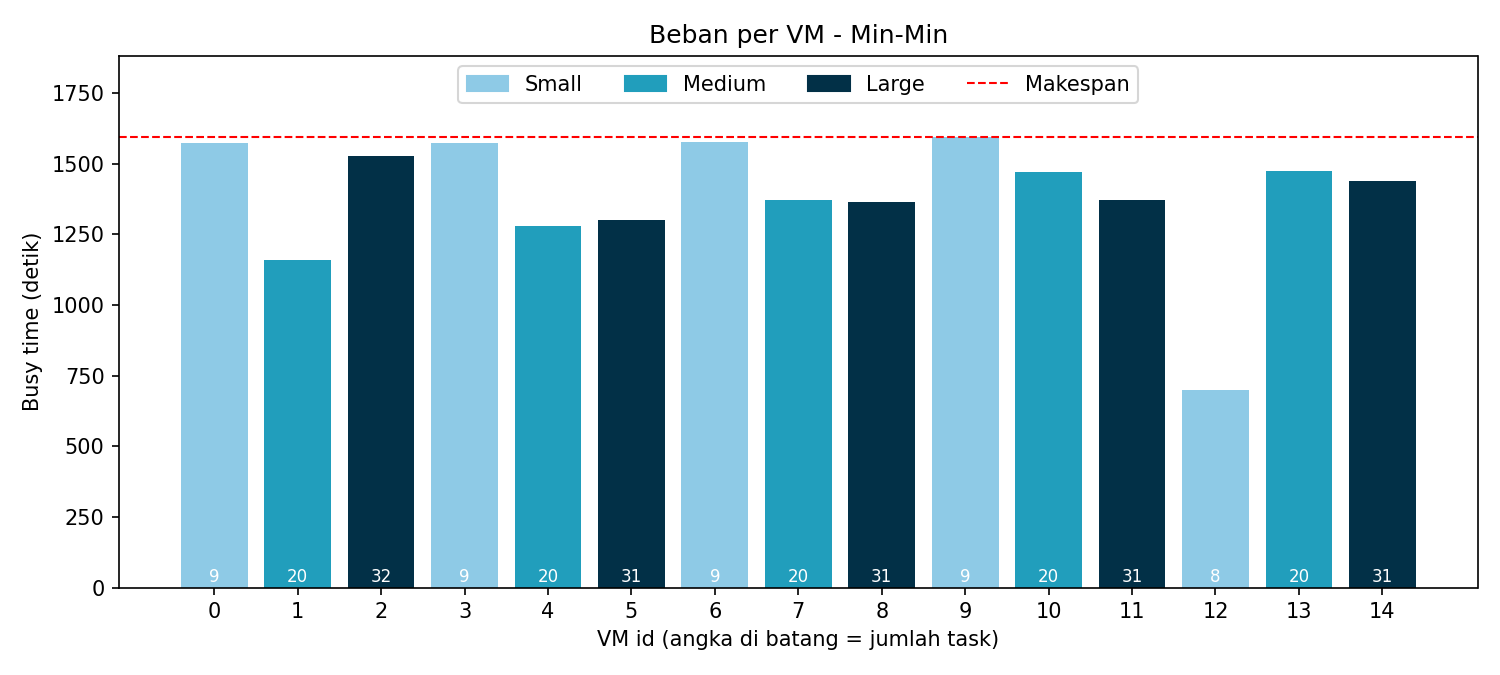
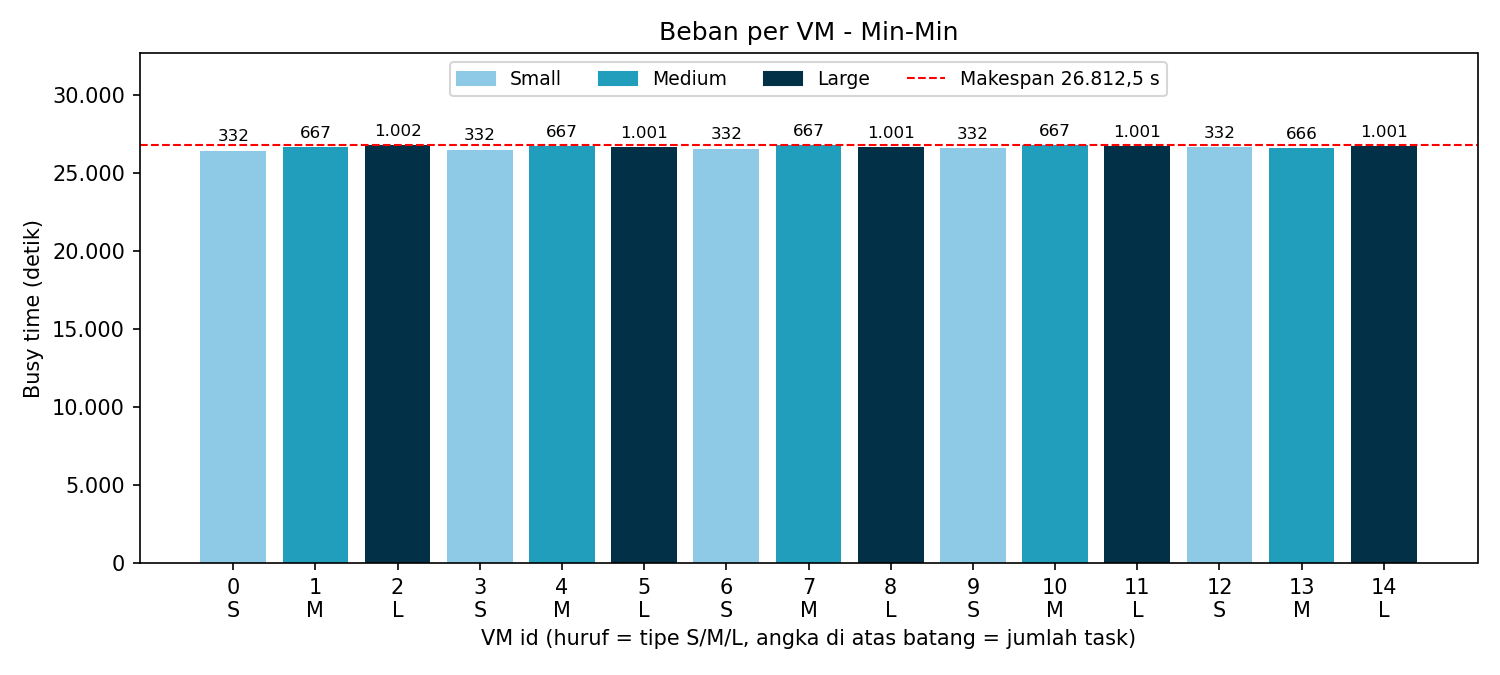
revisi dari bu henning

Changed region(s): [[0.0, 0.1867, 0.9813, 0.9644], [0.092, 0.0311, 0.9813, 0.1556], [0.0307, 0.1244, 0.092, 0.1556]]

diff --git a/analysis/plot_results.py b/analysis/plot_results.py
@@ -3,54 +3,113 @@ Membuat 3 grafik dari CSV hasil simulasi. Jalankan dari folder root proyek:
     python analysis/plot_results.py
 Butuh:  pip install pandas matplotlib
 Output: results/grafik_1_beban_vm.png, grafik_2_urutan_vs_panjang.png, grafik_3_waiting_time.png
+Format angka Indonesia: titik = ribuan, koma = desimal.
 """
 import os
 import pandas as pd
+import numpy as np
 import matplotlib
 matplotlib.use("Agg")          # aman di laptop tanpa layar / WSL
 import matplotlib.pyplot as plt
+from matplotlib.ticker import FuncFormatter
 
 R = "results"
 cl = pd.read_csv(os.path.join(R, "cloudlet_result.csv"))
 vm = pd.read_csv(os.path.join(R, "vm_load.csv"))
 sm = pd.read_csv(os.path.join(R, "summary.csv")).set_index("metrik")["nilai"]
 
-# ---- 1. Beban per VM (busy time) -> apakah load seimbang? ----
+
+def fmt_int_id(x, pos=None):
+    try:
+        v = float(x)
+    except (TypeError, ValueError):
+        return ""
+    return f"{int(round(v)):,}".replace(",", ".")
+
+
+def fmt_des_id(x, nd=1):
+    s = f"{x:,.{nd}f}"
+    return s.replace(",", "X").replace(".", ",").replace("X", ".")
+
+
+n = len(cl)
+makespan = float(sm["makespan_simulasi_detik"])
+avg_wait = float(sm["average_waiting_time_detik"])
+
+# ---- 1. Beban per VM (busy time) ----
 fig, ax = plt.subplots(figsize=(10, 4.5))
 colors = {"Small": "#8ecae6", "Medium": "#219ebc", "Large": "#023047"}
-ax.bar(vm["vm_id"], vm["busy_time"], color=[colors[t] for t in vm["tipe"]])
-ax.axhline(sm["makespan_simulasi_detik"], color="red", ls="--", lw=1, label="Makespan")
-for x, n in zip(vm["vm_id"], vm["jumlah_task"]):
-    ax.text(x, 5, str(n), ha="center", va="bottom", color="white", fontsize=8)
-ax.set_xticks(vm["vm_id"]); ax.set_xlabel("VM id (angka di batang = jumlah task)")
-ax.set_ylabel("Busy time (detik)"); ax.set_title("Beban per VM - Min-Min")
+bars = ax.bar(vm["vm_id"], vm["busy_time"], color=[colors[t] for t in vm["tipe"]])
+ax.axhline(makespan, color="red", ls="--", lw=1,
+           label=f"Makespan {fmt_des_id(makespan)} s")
+# angka jumlah task di ATAS batang (hitam, terbaca)
+ymax = max(vm["busy_time"].max(), makespan)
+for rect, nt in zip(bars, vm["jumlah_task"]):
+    ax.text(rect.get_x() + rect.get_width() / 2, rect.get_height() + ymax * 0.015,
+            fmt_int_id(nt), ha="center", va="bottom", color="black", fontsize=8)
+ax.set_xticks(vm["vm_id"])
+ax.set_xticklabels([f"{i}\n{t[0]}" for i, t in zip(vm["vm_id"], vm["tipe"])])
+ax.set_xlabel("VM id (huruf = tipe S/M/L, angka di atas batang = jumlah task)")
+ax.set_ylabel("Busy time (detik)")
+ax.set_title("Beban per VM - Min-Min")
 handles = [plt.Rectangle((0, 0), 1, 1, color=c) for c in colors.values()]
-ax.set_ylim(0, sm["makespan_simulasi_detik"] * 1.18)
-ax.legend(handles + [ax.lines[0]], list(colors.keys()) + ["Makespan"], loc="upper center", ncol=4)
+ax.yaxis.set_major_formatter(FuncFormatter(fmt_int_id))
+ax.set_ylim(0, ymax * 1.22)
+ax.legend(handles + [ax.lines[0]], list(colors.keys()) + [f"Makespan {fmt_des_id(makespan)} s"],
+          loc="upper center", ncol=4, fontsize=9)
 fig.tight_layout(); fig.savefig(os.path.join(R, "grafik_1_beban_vm.png"), dpi=150); plt.close(fig)
 
-# ---- 2. Urutan penjadwalan vs panjang task -> apakah task kecil duluan? ----
+# ---- 2. Urutan penjadwalan vs panjang task ----
 fig, ax = plt.subplots(figsize=(8, 4.5))
-ax.scatter(cl["urutan_dijadwalkan"], cl["panjang_MI"], s=12, alpha=0.7)
-ax.set_xlabel("Urutan dijadwalkan (1 = pertama)"); ax.set_ylabel("Panjang task (MI)")
+ax.scatter(cl["urutan_dijadwalkan"], cl["panjang_MI"], s=12, alpha=0.6)
+ax.set_xlabel("Urutan dijadwalkan (1 = pertama)")
+ax.set_ylabel("Panjang task (MI)")
 ax.set_title("Urutan penjadwalan vs panjang task")
+ax.yaxis.set_major_formatter(FuncFormatter(fmt_int_id))
+ax.xaxis.set_major_formatter(FuncFormatter(fmt_int_id))
+ax.grid(True, linestyle=":", alpha=0.5)
 fig.tight_layout(); fig.savefig(os.path.join(R, "grafik_2_urutan_vs_panjang.png"), dpi=150); plt.close(fig)
 
-# ---- 3. Waiting time per task, diurutkan menurut panjang task ----
+# ---- 3. Waiting time: rata-rata per bin (diurutkan menurut panjang task) ----
 s = cl.sort_values("panjang_MI").reset_index(drop=True)
-fig, ax = plt.subplots(figsize=(8, 4.5))
-ax.bar(s.index, s["waiting_time"], width=1.0, color="#219ebc")
-ax.axhline(sm["average_waiting_time_detik"], color="red", ls="--", lw=1, label="Rata-rata")
-ax.set_xlabel("Task (diurutkan dari terpendek ke terpanjang)"); ax.set_ylabel("Waiting time (detik)")
-ax.set_title("Waiting time per task"); ax.legend()
+n_bins = 20 if n >= 200 else max(5, n // 10)
+s["bin"] = pd.qcut(s.index, q=n_bins, duplicates="drop")
+g = s.groupby("bin", observed=True).agg(
+    mi_min=("panjang_MI", "min"), mi_max=("panjang_MI", "max"),
+    wait_mean=("waiting_time", "mean"), jml=("waiting_time", "size"))
+g = g.reset_index(drop=True)
+x = np.arange(len(g))
+labels = [f"{fmt_int_id(a)}–{fmt_int_id(b)}" for a, b in zip(g["mi_min"], g["mi_max"])]
+
+fig, ax = plt.subplots(figsize=(10, 4.5))
+bars = ax.bar(x, g["wait_mean"], color="#219ebc", edgecolor="white")
+ax.axhline(avg_wait, color="red", ls="--", lw=1.2,
+           label=f"Rata-rata global {fmt_des_id(avg_wait)} s")
+for i, v in enumerate(g["wait_mean"]):
+    if i % max(1, len(g) // 10) == 0 or i == len(g) - 1:
+        ax.text(i, v, fmt_des_id(v, 0) + " s", ha="center", va="bottom", fontsize=7)
+ax.set_xticks(x)
+step = max(1, len(g) // 10)
+ax.set_xticklabels([lb if (i % step == 0 or i == len(g) - 1) else "" for i, lb in enumerate(labels)],
+                   rotation=30, ha="right", fontsize=7)
+ax.set_xlabel(f"Kelompok task per panjang MI (n={fmt_int_id(n)} task, {fmt_int_id(g['jml'].iloc[0])} task/bin)")
+ax.set_ylabel("Rata-rata waiting time (detik)")
+ax.set_title("Rata-rata waiting time per kelompok panjang task")
+ax.yaxis.set_major_formatter(FuncFormatter(fmt_int_id))
+ax.legend(fontsize=9)
 fig.tight_layout(); fig.savefig(os.path.join(R, "grafik_3_waiting_time.png"), dpi=150); plt.close(fig)
 
-# ---- Angka pendukung untuk analisis dugaan slide 10 ----
+# ---- Angka pendukung ----
 q = cl["panjang_MI"].quantile([0.25, 0.75])
 kecil = cl[cl["panjang_MI"] <= q[0.25]]; besar = cl[cl["panjang_MI"] >= q[0.75]]
-print("Rata-rata waiting task terpendek (25%%): %.2f dtk" % kecil["waiting_time"].mean())
-print("Rata-rata waiting task terpanjang (25%%): %.2f dtk" % besar["waiting_time"].mean())
-print("Korelasi urutan vs panjang task (Spearman): %.3f" % cl["urutan_dijadwalkan"].corr(cl["panjang_MI"], method="spearman"))
-print("Utilisasi VM Small/Medium/Large (rata-rata %):")
+print("Rata-rata waiting task terpendek (25%%): %s dtk" % fmt_des_id(kecil["waiting_time"].mean(), 2))
+print("Rata-rata waiting task terpanjang (25%%): %s dtk" % fmt_des_id(besar["waiting_time"].mean(), 2))
+try:
+    rs = cl["urutan_dijadwalkan"].corr(cl["panjang_MI"], method="spearman")
+except ImportError:
+    # ponytail: tanpa scipy, Spearman = Pearson dari rank
+    rs = cl["urutan_dijadwalkan"].rank().corr(cl["panjang_MI"].rank())
+print("Korelasi urutan vs panjang task (Spearman): %.3f" % rs)
+print("Utilisasi VM Small/Medium/Large (rata-rata %%):")
 print(vm.groupby("tipe")["utilisasi_vm"].mean().round(2).to_string())
 print("Grafik tersimpan di folder results/")

diff --git a/analysis/plot_makespan.py b/analysis/plot_makespan.py
@@ -16,8 +16,25 @@ import pandas as pd
 import matplotlib
 matplotlib.use("Agg")
 import matplotlib.pyplot as plt
+from matplotlib.ticker import FuncFormatter
 
 R = "results"
+
+
+def fmt_int_id(x, pos=None):
+    # 10000 -> "10.000"
+    return f"{int(round(x)):,}".replace(",", ".")
+
+
+def fmt_1des_id(x):
+    # 4428.6 -> "4.428,6"
+    s = f"{x:,.1f}"  # "4,428.6"
+    return s.replace(",", "X").replace(".", ",").replace("X", ".")
+
+
+def fmt_0des_id(x):
+    # 26812 -> "26.812"
+    return f"{x:,.0f}".replace(",", ".")
 gocj_csv = os.path.join(R, "batch_gocj.csv")
 synth_csv = os.path.join(R, "batch_synthetic.csv")
 
@@ -39,7 +56,7 @@ ax1.plot(df_gocj["jumlah_task"], df_gocj["makespan_prediksi_detik"],
          linestyle="--", color="#f97316", linewidth=1.8, label="Prediksi Min-Min")
 
 for _, row in df_gocj.iterrows():
-    ax1.annotate(f"{row['makespan_simulasi_detik']:.1f}s",
+    ax1.annotate(f"{fmt_1des_id(row['makespan_simulasi_detik'])} s",
                  (row["jumlah_task"], row["makespan_simulasi_detik"]),
                  textcoords="offset points", xytext=(0, 7), ha='center', fontsize=7.5)
 
@@ -47,6 +64,8 @@ ax1.set_title("GoCJ Dataset (100 – 1.000 Task)", fontsize=13, fontweight="bold
 ax1.set_xlabel("Jumlah Task", fontsize=11)
 ax1.set_ylabel("Makespan (detik)", fontsize=11)
 ax1.set_xticks(df_gocj["jumlah_task"])
+ax1.set_xticklabels([fmt_int_id(v) for v in df_gocj["jumlah_task"]])
+ax1.yaxis.set_major_formatter(FuncFormatter(fmt_int_id))
 ax1.grid(True, linestyle=":", alpha=0.6)
 ax1.legend(loc="upper left")
 
@@ -57,7 +76,7 @@ ax2.plot(df_synth["jumlah_task"], df_synth["makespan_prediksi_detik"],
          linestyle="--", color="#dc2626", linewidth=1.8, label="Prediksi Min-Min")
 
 for _, row in df_synth.iterrows():
-    ax2.annotate(f"{row['makespan_simulasi_detik']:.0f}s",
+    ax2.annotate(f"{fmt_0des_id(row['makespan_simulasi_detik'])} s",
                  (row["jumlah_task"], row["makespan_simulasi_detik"]),
                  textcoords="offset points", xytext=(0, 7), ha='center', fontsize=7.5)
 
@@ -65,9 +84,8 @@ ax2.set_title("Synthetic Dataset (1.000 – 10.000 Task)", fontsize=13, fontweig
 ax2.set_xlabel("Jumlah Task", fontsize=11)
 ax2.set_ylabel("Makespan (detik)", fontsize=11)
 ax2.set_xticks(df_synth["jumlah_task"])
-ax2.tick_params(axis='x', rotation=30)
-ax2.grid(True, linestyle=":", alpha=0.6)
-ax2.legend(loc="upper left")
+ax2.set_xticklabels([fmt_int_id(v) for v in df_synth["jumlah_task"]])
+ax2.yaxis.set_major_formatter(FuncFormatter(fmt_int_id))
 
 plt.suptitle("Evaluasi Algoritma Min-Min: Makespan vs Jumlah Task", fontsize=15, fontweight="bold", y=1.00)
 fig.tight_layout()
@@ -76,3 +94,25 @@ out_path = os.path.join(R, "grafik_makespan.png")
 fig.savefig(out_path, dpi=200, bbox_inches="tight")
 plt.close(fig)
 print(f"[OK] Grafik berhasil disimpan ke: {out_path}")
+
+# ---- Grafik gabungan (skala log X, format Indonesia) ----
+fig2, ax = plt.subplots(figsize=(10, 6))
+ax.plot(df_gocj["jumlah_task"], df_gocj["makespan_simulasi_detik"],
+        marker="o", color="#0284c7", linewidth=2.2, label="GoCJ (100 - 1.000 task)")
+ax.plot(df_synth["jumlah_task"], df_synth["makespan_simulasi_detik"],
+        marker="s", color="#16a34a", linewidth=2.2, label="Synthetic (1.000 - 10.000 task)")
+ax.set_xscale("log")
+ax.set_xticks(list(df_gocj["jumlah_task"]) + list(df_synth["jumlah_task"]))
+ax.set_xticklabels([fmt_int_id(v) for v in list(df_gocj["jumlah_task"]) + list(df_synth["jumlah_task"])],
+                   rotation=45)
+ax.yaxis.set_major_formatter(FuncFormatter(fmt_int_id))
+ax.set_title("Min-Min: Makespan vs Jumlah Task (GoCJ vs Synthetic)", fontsize=13, fontweight="bold")
+ax.set_xlabel("Jumlah Task (skala log)", fontsize=11)
+ax.set_ylabel("Makespan (detik)", fontsize=11)
+ax.grid(True, linestyle=":", alpha=0.6, which="both")
+ax.legend()
+fig2.tight_layout()
+out2 = os.path.join(R, "grafik_makespan_gabungan.png")
+fig2.savefig(out2, dpi=200, bbox_inches="tight")
+plt.close(fig2)
+print(f"[OK] Grafik gabungan disimpan ke: {out2}")
